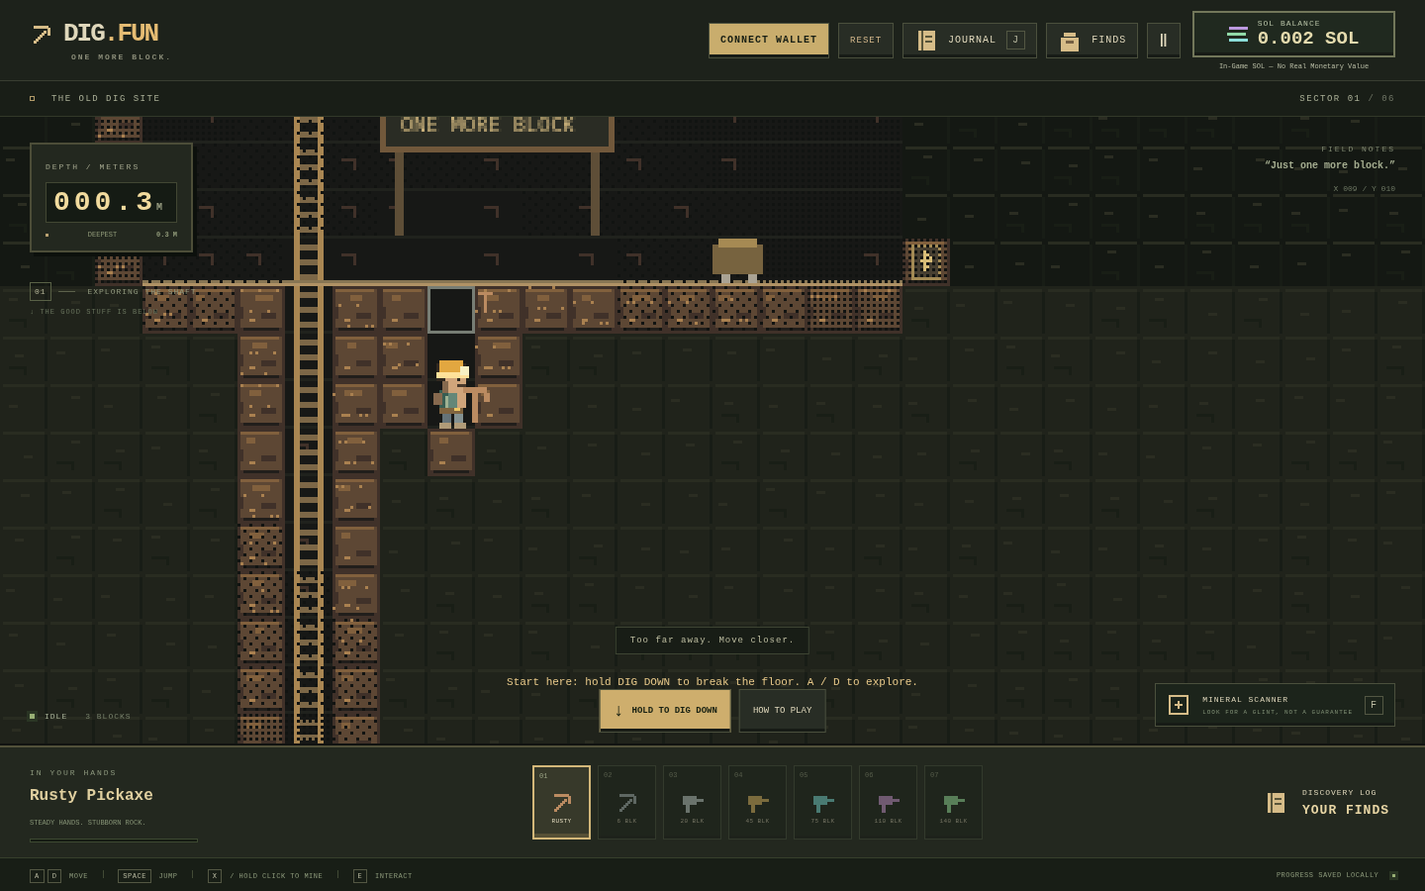
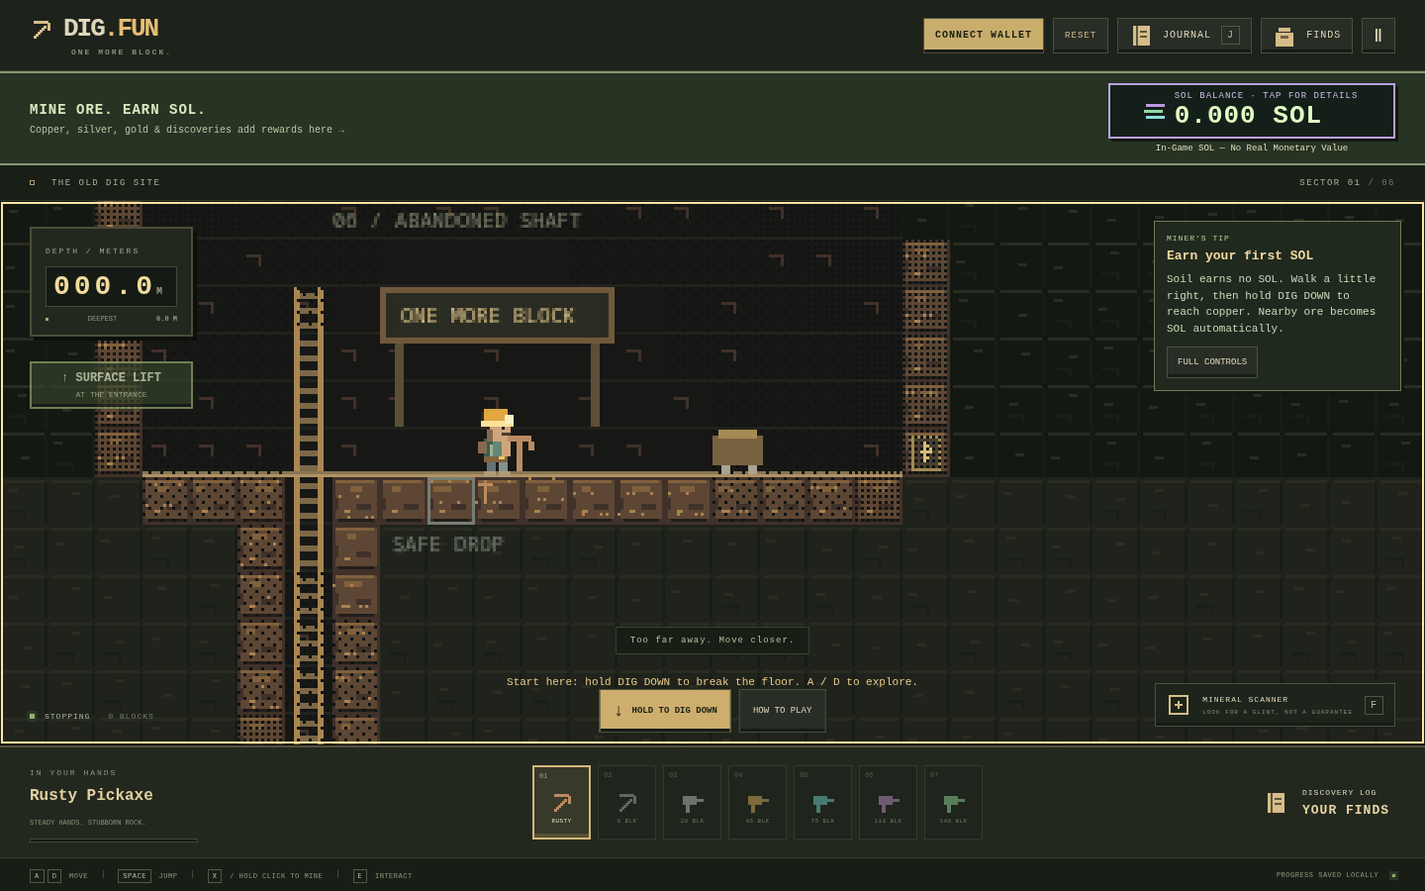
feat: enhance gameplay with surface lift mechanics and contextual hints

diff --git a/src/App.jsx b/src/App.jsx
@@ -6,7 +6,7 @@ import SolCounter from './components/SolCounter'
 import { formatSOL } from './utils/sol'
 import { WALLET_OPTIONS, walletProvider } from './utils/wallet'
 import { loadProgress } from './utils/storage'
-import { createGame, restore, serialize, SAVE_KEY, DEFAULT_KEYS, DEFAULT_SETTINGS, TOOLS, ORE_COLORS, SURFACE, TILE, ZONES, zoneAt, step, reveal, switchTool, interact, scan, say, promptFor, unlocked, keyOf, playerTile, tile, turnDial } from './utils/world'
+import { createGame, restore, serialize, SAVE_KEY, DEFAULT_KEYS, DEFAULT_SETTINGS, TOOLS, ORE_COLORS, SURFACE, TILE, ZONES, zoneAt, step, reveal, switchTool, interact, scan, say, promptFor, unlocked, keyOf, playerTile, tile, turnDial, returnToSurface, gameplayHint } from './utils/world'
 import { drawWorld } from './utils/renderWorld'
 
 const keyLabel = code => code.replace('Key', '').replace('Digit', '').replace('Arrow', '').replace('Left', 'LEFT').replace('Right', 'RIGHT').replace('Space', 'SPACE').replace('Escape', 'ESC')
@@ -43,6 +43,7 @@ export default function App() {
     if (action === 'journal' || action === 'inventory') { open(action); return }
     if (action === 'next' || action === 'previous') switchTool(g, action === 'next' ? 1 : -1)
     if (action === 'scanner') scan(g)
+    if (action === 'surface') { input.current = {}; gesture.current = null; inspect.current = 0; returnToSurface(g); camera.current = { x: 0, y: 0 }; save(); canvas.current?.focus() }
     if (action === 'interact') { const next = interact(g); if (next) open(next); save() }
     refresh(n => n + 1)
   }
@@ -151,23 +152,22 @@ export default function App() {
       const next = restore(value); game.current = next.g; config.current = next.settings; setSettings(next.settings); save(); setStatus('World restored.'); camera.current = { x: 0, y: 0 }
     } catch (error) { setStatus(error.message || 'Invalid save. Your current mine is unchanged.') }
   }
-  const g = game.current, depth = Math.max(0, (Math.floor(g.player.y + .9) - SURFACE) / 10), tool = TOOLS[g.tool]
+  const g = game.current, hint = gameplayHint(g), depth = Math.max(0, (Math.floor(g.player.y + .9) - SURFACE) / 10), tool = TOOLS[g.tool]
   return <main className={`game ${settings.touch ? 'show-touch' : ''}`}>
     <header className="game-header">
       <a className="wordmark" href="#game" onClick={e => { e.preventDefault(); canvas.current.focus() }} aria-label="DIG.FUN — focus game"><PixelIcon />DIG<span>.FUN</span><small>ONE MORE BLOCK.</small></a>
       <div className="header-center"><span className="live-pixel" /> LOCAL EXPEDITION <span className="muted">/</span> NO. 006</div>
       <nav aria-label="Game menus"><button className="connect-wallet" onClick={() => open('wallet')} aria-label={wallet.connection ? 'Connected wallet' : 'Connect wallet'}>{wallet.connection ? `${wallet.connection.address.slice(0, 4)}…${wallet.connection.address.slice(-4)}` : 'CONNECT WALLET'}</button><button className="reset-world" onClick={() => open('reset')} aria-label="Reset game">RESET</button><button onClick={() => open('journal')}><PixelIcon type="book" /><span>JOURNAL</span><kbd>{keyLabel(settings.keys.journal)}</kbd></button><button onClick={() => open('inventory')}><PixelIcon type="pouch" /><span>FINDS</span></button><button onClick={() => open('pause')} aria-label="Pause and settings"><span className="pause-icon">Ⅱ</span></button></nav>
-      <SolCounter sol={g.sol} reduced={settings.reduced} onOpen={() => open('sol')} />
     </header>
+    <section className="sol-hud" aria-label="In-game SOL rewards"><div className="sol-hud-tip"><strong>MINE ORE. EARN SOL.</strong><span>Copper, silver, gold & discoveries add rewards here →</span></div><SolCounter sol={g.sol} reduced={settings.reduced} onOpen={() => open('sol')} /></section>
     <div className="expedition-bar"><span><i /> {ZONES[zoneAt(g.player.y)]}</span><span>SECTOR {String(zoneAt(g.player.y) + 1).padStart(2, '0')} <span className="muted">/ 06</span></span></div>
     <section className="playfield" ref={view} id="game" aria-label="Mining expedition">
       <canvas ref={canvas} tabIndex={0} aria-label="Mining world. A D move, W S aim or climb, Space jump, X hold to mine, E interact. Rebind controls in Settings." onPointerDown={pointerDown} onPointerMove={pointerMove} onPointerUp={pointerUp} onPointerCancel={pointerUp} onLostPointerCapture={() => { input.current.mine = false }} onContextMenu={e => e.preventDefault()} />
       <div className="depth-counter"><span>DEPTH / METERS</span><strong>{depth.toFixed(1).padStart(5, '0')}<small>M</small></strong><div><i /> DEEPEST <b>{g.deepest.toFixed(1)} M</b></div></div>
-      <div className="field-coordinates"><span>FIELD NOTES</span><b>“Just one more block.”</b><small>X {Math.floor(g.player.x).toString().padStart(3, '0')} / Y {Math.floor(g.player.y).toString().padStart(3, '0')}</small></div>
-      <div className="zone-marker"><span>{String(zoneAt(g.player.y) + 1).padStart(2, '0')}</span><i /> {depth === 0 ? 'SURFACE ENTRANCE' : 'EXPLORING THE SHAFT'} <small>↓ THE GOOD STUFF IS BELOW</small></div>
+      <aside className="gameplay-hint"><small>MINER’S TIP</small><strong>{hint.title}</strong><p>{hint.text}</p><button onClick={() => open('help')}>FULL CONTROLS</button></aside>
+      <button className="surface-lift" onClick={() => actions.current('surface')} disabled={depth === 0} aria-label="Return to surface"><span>↑ SURFACE LIFT</span><small>{depth === 0 ? 'AT THE ENTRANCE' : 'FREE · KEEP YOUR SOL'}</small></button>
       <div className="interaction-prompt">{promptFor(g)}</div>
       <div className="easy-controls">{touchButton('digDown', 'Hold to dig down', '↓', true)}<button onClick={() => open('help')}>HOW TO PLAY</button></div>
-      {g.broken < 3 && <div className="first-dig-hint">Hold DIG DOWN to start · Release to stop</div>}
       <div className="notification" role="status" aria-live="polite">{g.noticeUntil > g.time ? g.notice : ''}</div>
       <div className="miner-readout"><span className="live-pixel" />{g.player.state.replaceAll('-', ' ').toUpperCase()}<span> {g.broken} BLOCKS</span></div>
       <button className={`scanner-button ${g.scanner ? 'scanning' : ''}`} onClick={() => actions.current('scanner')}><PixelIcon type="scan" /><span>MINERAL SCANNER<small>{g.time < g.scannerReady ? `RECHARGING ${Math.ceil(g.scannerReady - g.time)}S` : 'LOOK FOR A GLINT, NOT A GUARANTEE'}</small></span><kbd>{keyLabel(settings.keys.scanner)}</kbd></button>
@@ -185,8 +185,8 @@ export default function App() {
     {panel && <div className="panel-backdrop" onPointerDown={e => { if (e.target === e.currentTarget) closePanel() }}><section ref={focus} className="game-panel" role="dialog" aria-modal="true" aria-labelledby="panel-title"><header><div><small>EXPEDITION PAUSED / FIELD EQUIPMENT</small><h1 id="panel-title">{({ sol: 'IN-GAME SOL', wallet: wallet.connection ? 'WALLET CONNECTED' : 'CONNECT WALLET', help: 'LET’S START DIGGING.', pause: 'TAKE A BREATHER.', settings: 'CONTROL ROOM', journal: 'FIELD NOTEBOOK', inventory: 'DISCOVERY LOG', reset: 'START A NEW SHAFT?' })[panel]}</h1></div><button onClick={closePanel} aria-label="Close panel">×</button></header>
       {panel === 'sol' && <><dl className="sol-details">{[['CURRENT BALANCE', formatSOL(g.sol.balance)], ['TOTAL EARNED', formatSOL(g.sol.total)], ['THIS SESSION', formatSOL(g.solSession)], ['LARGEST REWARD', formatSOL(g.sol.largest)], ['LATEST REWARD', `+${formatSOL(g.sol.latest?.amount || 0)}`], ['SOURCE', g.sol.latest?.source || 'NO REWARDS YET']].map(([label, value]) => <div key={label}><dt>{label}</dt><dd>{value}</dd></div>)}</dl><p className="sol-panel-disclaimer">In-Game SOL — No Real Monetary Value</p><p className="fine-print">Earn SOL by collecting ore, opening rewarding artifacts, solving ancient seals, reaching new depths, and entering secret chambers. This local game balance cannot be withdrawn, transferred, traded, or sent to a wallet.</p></>}
       {panel === 'wallet' && <>{wallet.connection ? <><p>{wallet.connection.name} connected.</p><code className="wallet-address">{wallet.connection.address}</code><button disabled={wallet.pending} onClick={wallet.disconnect}>{wallet.pending ? 'DISCONNECTING…' : 'DISCONNECT WALLET'}</button></> : <><p>Choose your Solana wallet. Connecting is optional — you can start digging right away.</p><div className="wallet-choices">{WALLET_OPTIONS.map(option => <div key={option.name}><button disabled={wallet.pending} onClick={() => wallet.connect(option.name)}>{wallet.pending ? 'WAITING FOR WALLET…' : `CONNECT ${option.name.toUpperCase()}`}</button>{!walletProvider(option.name) && <a href={option.url} target="_blank" rel="noopener noreferrer">Get {option.name} ↗</a>}</div>)}</div><p className="fine-print">On mobile, open this game in your wallet’s browser. Approve the connection there, then return here.</p></>}{wallet.error && <p role="alert">{wallet.error}</p>}<p className="fine-print">Shares your public address only. No signatures, transactions, or real token rewards. Your mine stays saved in this browser.</p><button onClick={closePanel}>BACK TO DIGGING</button></>}
-      {panel === 'help' && <><ol className="play-guide"><li><b>Break your first block.</b> Hold the DIG DOWN button. Release whenever you want to stop.</li><li><b>Pick a direction.</b> Use {keyLabel(settings.keys.left)} / {keyLabel(settings.keys.right)} or the arrow keys to walk. On a phone, hold the movement plates.</li><li><b>Explore sideways.</b> Hold a click on a neighboring block. On a phone, tap a block and hold Mine. Keyboard: aim with Up / Down and hold {keyLabel(settings.keys.mine)}.</li><li><b>Keep what you find.</b> Nearby ore converts directly into in-game SOL. Press {keyLabel(settings.keys.interact)} or Interact beside an artifact. Better tools unlock as you break blocks.</li></ol><p>Your miner only digs within reach. If the ground below is unsafe, explore another direction. Use {keyLabel(settings.keys.jump)} / Jump to get over gaps.</p><button className="primary" onClick={closePanel}>LET ME DIG</button></>}
-      {panel === 'pause' && <><p>The mine can wait. Your discoveries are safe.</p><div className="menu-buttons"><button className="primary" onClick={closePanel}>BACK TO THE MINE</button><button onClick={() => open('help')}>HOW TO PLAY</button><button onClick={() => open('reset')}>RESET GAME</button><button onClick={() => open('settings')}>SETTINGS & CONTROLS</button><button onClick={() => open('journal')}>ARTIFACT JOURNAL</button><button onClick={() => open('inventory')}>DISCOVERY LOG</button></div><p className="fine-print">Tools unlock as you break blocks. A / D or arrows to move; W / S to aim vertically or climb. Hold X to mine without a mouse. The ladder is to your left.</p></>}
+      {panel === 'help' && <><ol className="play-guide"><li><b>Break your first block.</b> Hold the DIG DOWN button. Release whenever you want to stop.</li><li><b>Pick a direction.</b> Use {keyLabel(settings.keys.left)} / {keyLabel(settings.keys.right)} or the arrow keys to walk. On a phone, hold the movement plates.</li><li><b>Explore sideways.</b> Hold a click on a neighboring block. On a phone, tap a block and hold Mine. Keyboard: aim with Up / Down and hold {keyLabel(settings.keys.mine)}.</li><li><b>Watch your SOL grow.</b> Soil and plain rock have no payout. Nearby copper, silver, gold, diamonds and crystals convert directly into in-game SOL. Your balance is always in the bright strip above the mine. Press {keyLabel(settings.keys.interact)} or Interact beside an artifact. Better tools unlock as you break blocks.</li><li><b>Come back up easily.</b> Tap SURFACE LIFT below the depth meter for an instant, free return to the entrance. Your SOL, discoveries and deepest record stay safe. Hold Up on a ladder to climb normally.</li></ol><p>Your miner only digs within reach. If the ground below is unsafe, explore another direction. Use {keyLabel(settings.keys.jump)} / Jump to get over gaps.</p><button className="primary" onClick={closePanel}>LET ME DIG</button></>}
+      {panel === 'pause' && <><p>The mine can wait. Your discoveries are safe.</p><div className="menu-buttons"><button className="primary" onClick={closePanel}>BACK TO THE MINE</button><button onClick={() => open('help')}>HOW TO PLAY</button><button onClick={() => { closePanel(); input.current = {}; returnToSurface(g); camera.current = { x: 0, y: 0 }; save() }}>RETURN TO SURFACE · FREE</button><button onClick={() => open('reset')}>RESET GAME</button><button onClick={() => open('settings')}>SETTINGS & CONTROLS</button><button onClick={() => open('journal')}>ARTIFACT JOURNAL</button><button onClick={() => open('inventory')}>DISCOVERY LOG</button></div><p className="fine-print">Tools unlock as you break blocks. A / D or arrows to move; W / S to aim vertically or climb. Hold X to mine without a mouse. The ladder is to your left.</p></>}
       {panel === 'inventory' && <><p>Each collected deposit rewards SOL immediately. These are discovery records, not spendable items or currencies.</p><div className="ore-list">{Object.entries(ORE_COLORS).map(([ore, color]) => <div key={ore}><PixelIcon type="ore" color={color} /><span>{ore === 'sol' ? 'SOL CRYSTAL' : `${ore.toUpperCase()} ORE`}</span><strong>{g.inventory[ore] ? 'DISCOVERED' : 'UNKNOWN'}</strong></div>)}</div><p className="fine-print">SOL Crystals and all tools are fictional local game items.</p></>}
       {panel === 'journal' && <><p>{g.artifacts.length} objects recovered · {g.deepest.toFixed(1)} m deepest descent.</p>{!g.artifacts.length && <div className="empty-note"><PixelIcon type="book" /><h2>THE PAGES ARE STILL EMPTY.</h2><p>Find an engraved casing. Approach it and press {keyLabel(settings.keys.interact)}. There’s one at the right edge of the entrance.</p></div>}{g.artifacts.map(a => <article className="field-entry" key={a.id}><small>OBJECT {a.id} / {a.outcome.toUpperCase()}</small><p>{artifactText[a.outcome]}</p>{a.outcome === 'puzzle' && <><p>Inscription: “First the tool, then the sun, then the way down.”</p><div className="puzzle-dials">{(a.dials || [0, 0, 0]).map((dial, index) => <button key={index} disabled={a.solved} aria-label={`Rotate mark ${index + 1}, currently ${['Ladder', 'Pickaxe', 'Sun'][dial]}`} onClick={() => { turnDial(g, a, index); save(); refresh(n => n + 1) }}><span>{['H', 'T', '*'][dial]}</span>{['LADDER', 'PICKAXE', 'SUN'][dial]}</button>)}</div>{a.solved && <p role="status">SEAL DECODED · Ancient walls unlocked.</p>}<small>You can close this notebook and return later.</small></>}</article>)}{legacy.artifacts.length > 0 && <div className="field-entry"><h2>PREVIOUS EXPEDITION ARCHIVE</h2><p>{legacy.artifacts.length} artifacts from your original save are preserved.</p>{legacy.artifacts.map(a => <p key={a.id}>{a.id} · {a.discoveredAt.slice(0, 10)}</p>)}</div>}</>}
       {panel === 'settings' && <><h2>COMFORT & SOUND</h2><div className="settings-toggles">{[['sound','Mining sounds'],['music','Ambient music'],['shake','Screen shake'],['reduced','Reduced motion'],['contrast','High-contrast targeting'],['vibration','Touch vibration'],['touch','Always show touch controls']].map(([key, label]) => <label key={key}><input type="checkbox" checked={settings[key]} onChange={e => setSettings(s => ({ ...s, [key]: e.target.checked }))} />{label}</label>)}</div><h2>TOUCH CONTROL PLATES</h2>{[['opacity','Opacity',.25,1,.05],['inset','Horizontal inset',0,90,1],['bottom','Bottom inset',0,90,1]].map(([key,label,min,max,stepValue]) => <label className="range-setting" key={key}>{label}<input type="range" min={min} max={max} step={stepValue} value={settings[key]} onChange={e => setSettings(s => ({ ...s, [key]: Number(e.target.value) }))} /><output>{key === 'opacity' ? `${Math.round(settings[key] * 100)}%` : `${settings[key]}px`}</output></label>)}<h2>KEY BINDINGS</h2><p className="fine-print">Select a binding, then press a key. Escape cancels. Conflicts swap places. Escape always closes a panel.</p><div className="key-bindings">{Object.entries(settings.keys).map(([action, code]) => <button key={action} onClick={() => setBinding(action)} onKeyDown={e => { if (binding === action) bind(e, action) }} aria-label={`Rebind ${action}, currently ${keyLabel(code)}`}><span>{action}</span><kbd>{binding === action ? 'PRESS KEY…' : keyLabel(code)}</kbd></button>)}</div><button onClick={() => setSettings(s => ({ ...s, keys: { ...DEFAULT_KEYS } }))}>RESTORE DEFAULT KEYS</button><h2>LOCAL SAVE</h2><div className="save-actions"><button onClick={exportSave}>EXPORT WORLD</button><label className="file-button">IMPORT WORLD<input type="file" accept="application/json" aria-label="Import world save, replaces current world" onChange={importSave} /></label><button onClick={() => open('reset')}>NEW EXPEDITION</button></div></>}

diff --git a/src/game.css b/src/game.css
@@ -25,3 +25,10 @@
 .sol-disclaimer{font-size:8px;letter-spacing:-.2px}
 @media(max-width:650px){.sol-disclaimer{font-size:8px}}
 @media(max-height:520px) and (pointer:coarse){.sol-disclaimer{font-size:7px}}
+
+/* Keep the only balance in a dedicated strip, separate from wallet controls. */
+.game-header{height:72px;flex-wrap:nowrap}.game-header nav{width:auto;order:0}.game-header .wordmark{order:0}.sol-hud{flex-shrink:0;display:flex;align-items:center;justify-content:space-between;gap:16px;padding:10px 30px;background:#273323;border-block:2px solid #859775;min-height:82px}.sol-hud-tip strong{display:block;font-size:14px;color:#d8eabd;letter-spacing:1px}.sol-hud-tip span{display:block;font-size:10px;color:#b4c7a3;margin-top:7px}.sol-hud .sol-counter-wrap{margin:0;min-width:290px;width:auto}.sol-hud .sol-counter{min-height:50px;background:#131f18;border:2px solid #bba1e3;box-shadow:3px 3px #12190f}.sol-hud .sol-counter strong{font-size:26px;color:#e2fac5;letter-spacing:1px}.sol-hud .sol-counter small{font-size:9px;color:#d0bce9}.sol-hud .sol-disclaimer{font-size:9px;color:#dfdfc0;letter-spacing:0}.gameplay-hint{position:absolute;top:20px;right:24px;width:250px;padding:12px;background:#20291e;border:1px solid #717a53;box-shadow:3px 3px #121710}.gameplay-hint>small{display:block;font-size:8px;letter-spacing:1px;color:#becd9d}.gameplay-hint strong{display:block;font-size:13px;color:#f1d69f;margin-top:6px}.gameplay-hint p{font-size:11px;line-height:1.5;margin:8px 0 10px;color:#ced7b9}.gameplay-hint button{font-size:9px;min-height:32px;padding:5px 10px}.surface-lift{position:absolute;left:30px;top:162px;width:165px;min-height:48px;background:#34432c;border:2px solid #94ad72;padding:8px}.surface-lift>span{display:block;font-size:12px;font-weight:bold;color:#e6f2ce}.surface-lift small{display:block;margin-top:5px;font-size:8px;color:#c0d1a6}.surface-lift:disabled{opacity:.7}.zone-marker{display:none}
+@media(max-width:800px){.game-header{padding:0 12px}.game-header nav{gap:5px}.game-header nav button{padding:0 8px}.sol-hud{padding:8px 12px}.sol-hud-tip{max-width:190px}.sol-hud-tip strong{font-size:11px}.sol-hud-tip span{font-size:9px}.gameplay-hint{width:210px;right:12px}.gameplay-hint p{font-size:10px}}
+@media(max-width:650px){.game-header{height:94px;flex-wrap:wrap;gap:6px;align-content:center}.game-header nav{width:100%}.game-header nav .connect-wallet{margin:0}.sol-hud{padding:7px 12px;min-height:83px;justify-content:flex-end}.sol-hud-tip{display:none}.sol-hud .sol-counter-wrap{width:100%;min-width:0}.sol-hud .sol-counter{min-height:46px}.sol-hud .sol-counter strong{font-size:25px}.sol-hud .sol-counter small{font-size:9px}.sol-hud .sol-disclaimer{font-size:9px}.gameplay-hint{width:calc(100% - 152px);top:14px;padding:8px}.gameplay-hint strong{font-size:11px}.gameplay-hint p{font-size:10px;line-height:1.4;margin:6px 0}.gameplay-hint>small{font-size:7px}.gameplay-hint button{font-size:8px;min-height:30px;padding:4px 7px}.surface-lift{left:12px;top:114px;width:116px;padding:6px;min-height:48px}.surface-lift>span{font-size:10px}.surface-lift small{font-size:7px}}
+@media(max-height:600px){.gameplay-hint{display:none}}
+@media(max-height:520px) and (pointer:coarse){.game-header{height:44px;flex-wrap:nowrap}.game-header nav{width:auto}.sol-hud{min-height:57px;padding:3px 12px}.sol-hud .sol-counter-wrap{min-width:0;width:250px}.sol-hud .sol-counter{min-height:32px;padding:2px 8px}.sol-hud .sol-counter strong{font-size:19px}.sol-hud .sol-counter small{font-size:7px}.sol-hud .sol-disclaimer{font-size:7px;margin-top:2px}.surface-lift{top:72px;left:12px;width:108px;min-height:38px;padding:4px}.surface-lift>span{font-size:9px}.surface-lift small{font-size:6px}.sol-hud-tip{display:block}.sol-hud-tip span{display:none}}

diff --git a/src/utils/world.js b/src/utils/world.js
@@ -53,6 +53,27 @@ export const solid = type => !!MATERIALS[type] || type === 'debris'
 export function createGame() {
   return { player: { x: 9.15, y: 7.05, vx: 0, vy: 0, facing: 1, state: 'idle', grounded: false }, removed: {}, damage: {}, drops: [], inventory: {}, sol: emptySOL(), solSession: 0, artifacts: [], deepest: 0, broken: 0, tool: 0, heat: 0, cooldown: 0, target: { x: 9, y: 8 }, seen: {}, particles: [], time: 0, lastHit: -1, notice: 'Start here: hold DIG DOWN to break the floor. A / D to explore.', noticeUntil: 7, scanner: 0, scannerReady: 0, recover: 0, reactUntil: 0, shake: 0, lastMove: 0, checkpoint: { x: 9.15, y: 7.05 } }
 }
+export function returnToSurface(g) {
+  // The permanent entrance ladder stays usable even after the surface floor is mined out.
+  Object.assign(g.player, { x: 6.175, y: 7.1, vx: 0, vy: 0, facing: 1, state: 'idle', grounded: false })
+  g.checkpoint = { x: g.player.x, y: g.player.y }
+  g.target = null; g.jumpHeld = false; g.fallStart = null; g.recover = 0; g.escapeUntil = 0; g.reactUntil = 0; g.shake = 0
+  say(g, 'Back at the entrance. Your SOL and discoveries are safe. Move right to explore again.')
+  reveal(g)
+}
+export function gameplayHint(g) {
+  if (g.recover > 0) return { title: 'Catch your breath', text: 'Your rewards are safe. Use SURFACE LIFT if you are stuck.' }
+  if (g.cooldown > 0) return { title: 'Your drill is cooling', text: 'Release Mine for a moment. It will work again when the heat drops.' }
+  if (g.target) {
+    const info = targetInfo(g)
+    if (info.type === 'casing' && info.reachable) return { title: 'An artifact!', text: 'Press Interact beside it. Some artifacts contain SOL; others hold clues.' }
+    if (g.player.grounded && info.locked && info.reason?.startsWith('Unsafe')) return { title: 'Unsafe drop', text: 'Move sideways and dig a safer route, or take the free SURFACE LIFT.' }
+    if (info.locked && info.reason?.startsWith('Stronger')) return { title: 'Upgrade your tool', text: 'Break ordinary rock to unlock tools. Choose a brighter slot in the belt below.' }
+  }
+  if (!g.sol.total) return { title: 'Earn your first SOL', text: 'Soil earns no SOL. Walk a little right, then hold DIG DOWN to reach copper. Nearby ore becomes SOL automatically.' }
+  if (g.player.y > 17) return { title: 'Go up whenever you want', text: 'Tap SURFACE LIFT for a free trip home. You keep every reward. Hold Up on ladders to climb normally.' }
+  return { title: 'Choose your next block', text: 'Walk left or right. Hold a nearby block to mine, or tap it then hold Mine on mobile. Tap SOL BALANCE for reward details.' }
+}
 export function say(g, message) { if (g.notice !== message || g.noticeUntil < g.time) { g.notice = message; g.noticeUntil = g.time + 3.5 } }
 export const playerTile = g => ({ x: Math.floor(g.player.x + .325), y: Math.floor(g.player.y + .45) })
 export function unlocked(g, i) { return i >= 0 && i < TOOLS.length && g.broken >= TOOLS[i].unlock }

diff --git a/test/world.test.js b/test/world.test.js
@@ -89,3 +89,23 @@ test('easy dig still refuses an unsafe drop', () => {
   const g = createGame(); for (let y = 9; y <= 15; y++) g.removed[keyOf(9, y)] = true
   tick(g, { digDown: true }, 3); assert.equal(g.broken, 0); assert.match(g.notice, /Unsafe/)
 })
+
+test('surface lift preserves rewards and terrain, even when the entrance floor is gone', async () => {
+  const { returnToSurface } = await import('../src/utils/world.js')
+  const g = createGame(); g.player.x = 10.175; g.player.y = 110.1; g.player.vy = 9
+  g.deepest = 10.3; g.sol.balance = 125; g.sol.total = 125; g.solSession = 125; g.inventory.gold = 2; g.artifacts = [{ id: '12,26', outcome: 'clue' }]
+  for (let y = 8; y <= 20; y++) g.removed[`9,${y}`] = true
+  const removed = JSON.stringify(g.removed); g.escapeUntil = 3; g.recover = 1; g.fallStart = 70
+  returnToSurface(g); tick(g, {}, 2)
+  assert.equal(g.player.x, 6.175); assert.equal(g.player.y, 7.1); assert.equal(g.player.vy, 0)
+  assert.equal(g.deepest, 10.3); assert.equal(g.sol.balance, 125); assert.equal(g.solSession, 125)
+  assert.equal(g.inventory.gold, 2); assert.equal(g.artifacts.length, 1); assert.equal(JSON.stringify(g.removed), removed)
+  assert.equal(g.escapeUntil, 0); assert.equal(g.recover, 0)
+  const next = restore(serialize(g, DEFAULT_SETTINGS)).g; tick(next); assert.equal(next.player.y, 7.1)
+})
+test('context hints explain initial SOL earning, deep return, and drill cooldown', async () => {
+  const { gameplayHint } = await import('../src/utils/world.js'); const g = createGame()
+  assert.match(gameplayHint(g).text, /Soil earns no SOL/)
+  g.sol.total = 3; g.player.y = 40; assert.match(gameplayHint(g).text, /SURFACE LIFT/)
+  g.cooldown = 2; assert.match(gameplayHint(g).title, /cooling/)
+})

diff --git a/src/components/SolCounter.jsx b/src/components/SolCounter.jsx
@@ -24,7 +24,7 @@ export default function SolCounter({ sol, reduced, onOpen }) {
   return <div className="sol-counter-wrap">
     <button className={`sol-counter ${shining ? 'sol-shine' : ''}`} onClick={onOpen} aria-label={`SOL balance: ${formatSOL(sol.balance)}. View SOL information.`}>
       <span className="sol-mark" aria-hidden="true"><i /><i /><i /></span>
-      <span><small>SOL BALANCE</small><strong>{formatSOL(shown)}</strong></span>
+      <span><small>SOL BALANCE · TAP FOR DETAILS</small><strong>{formatSOL(shown)}</strong></span>
     </button>
     <small className="sol-disclaimer">In-Game SOL — No Real Monetary Value</small>
     {flight && <span key={flight.id} className="sol-reward-flight" aria-hidden="true">+{formatSOL(flight.amount)}</span>}
